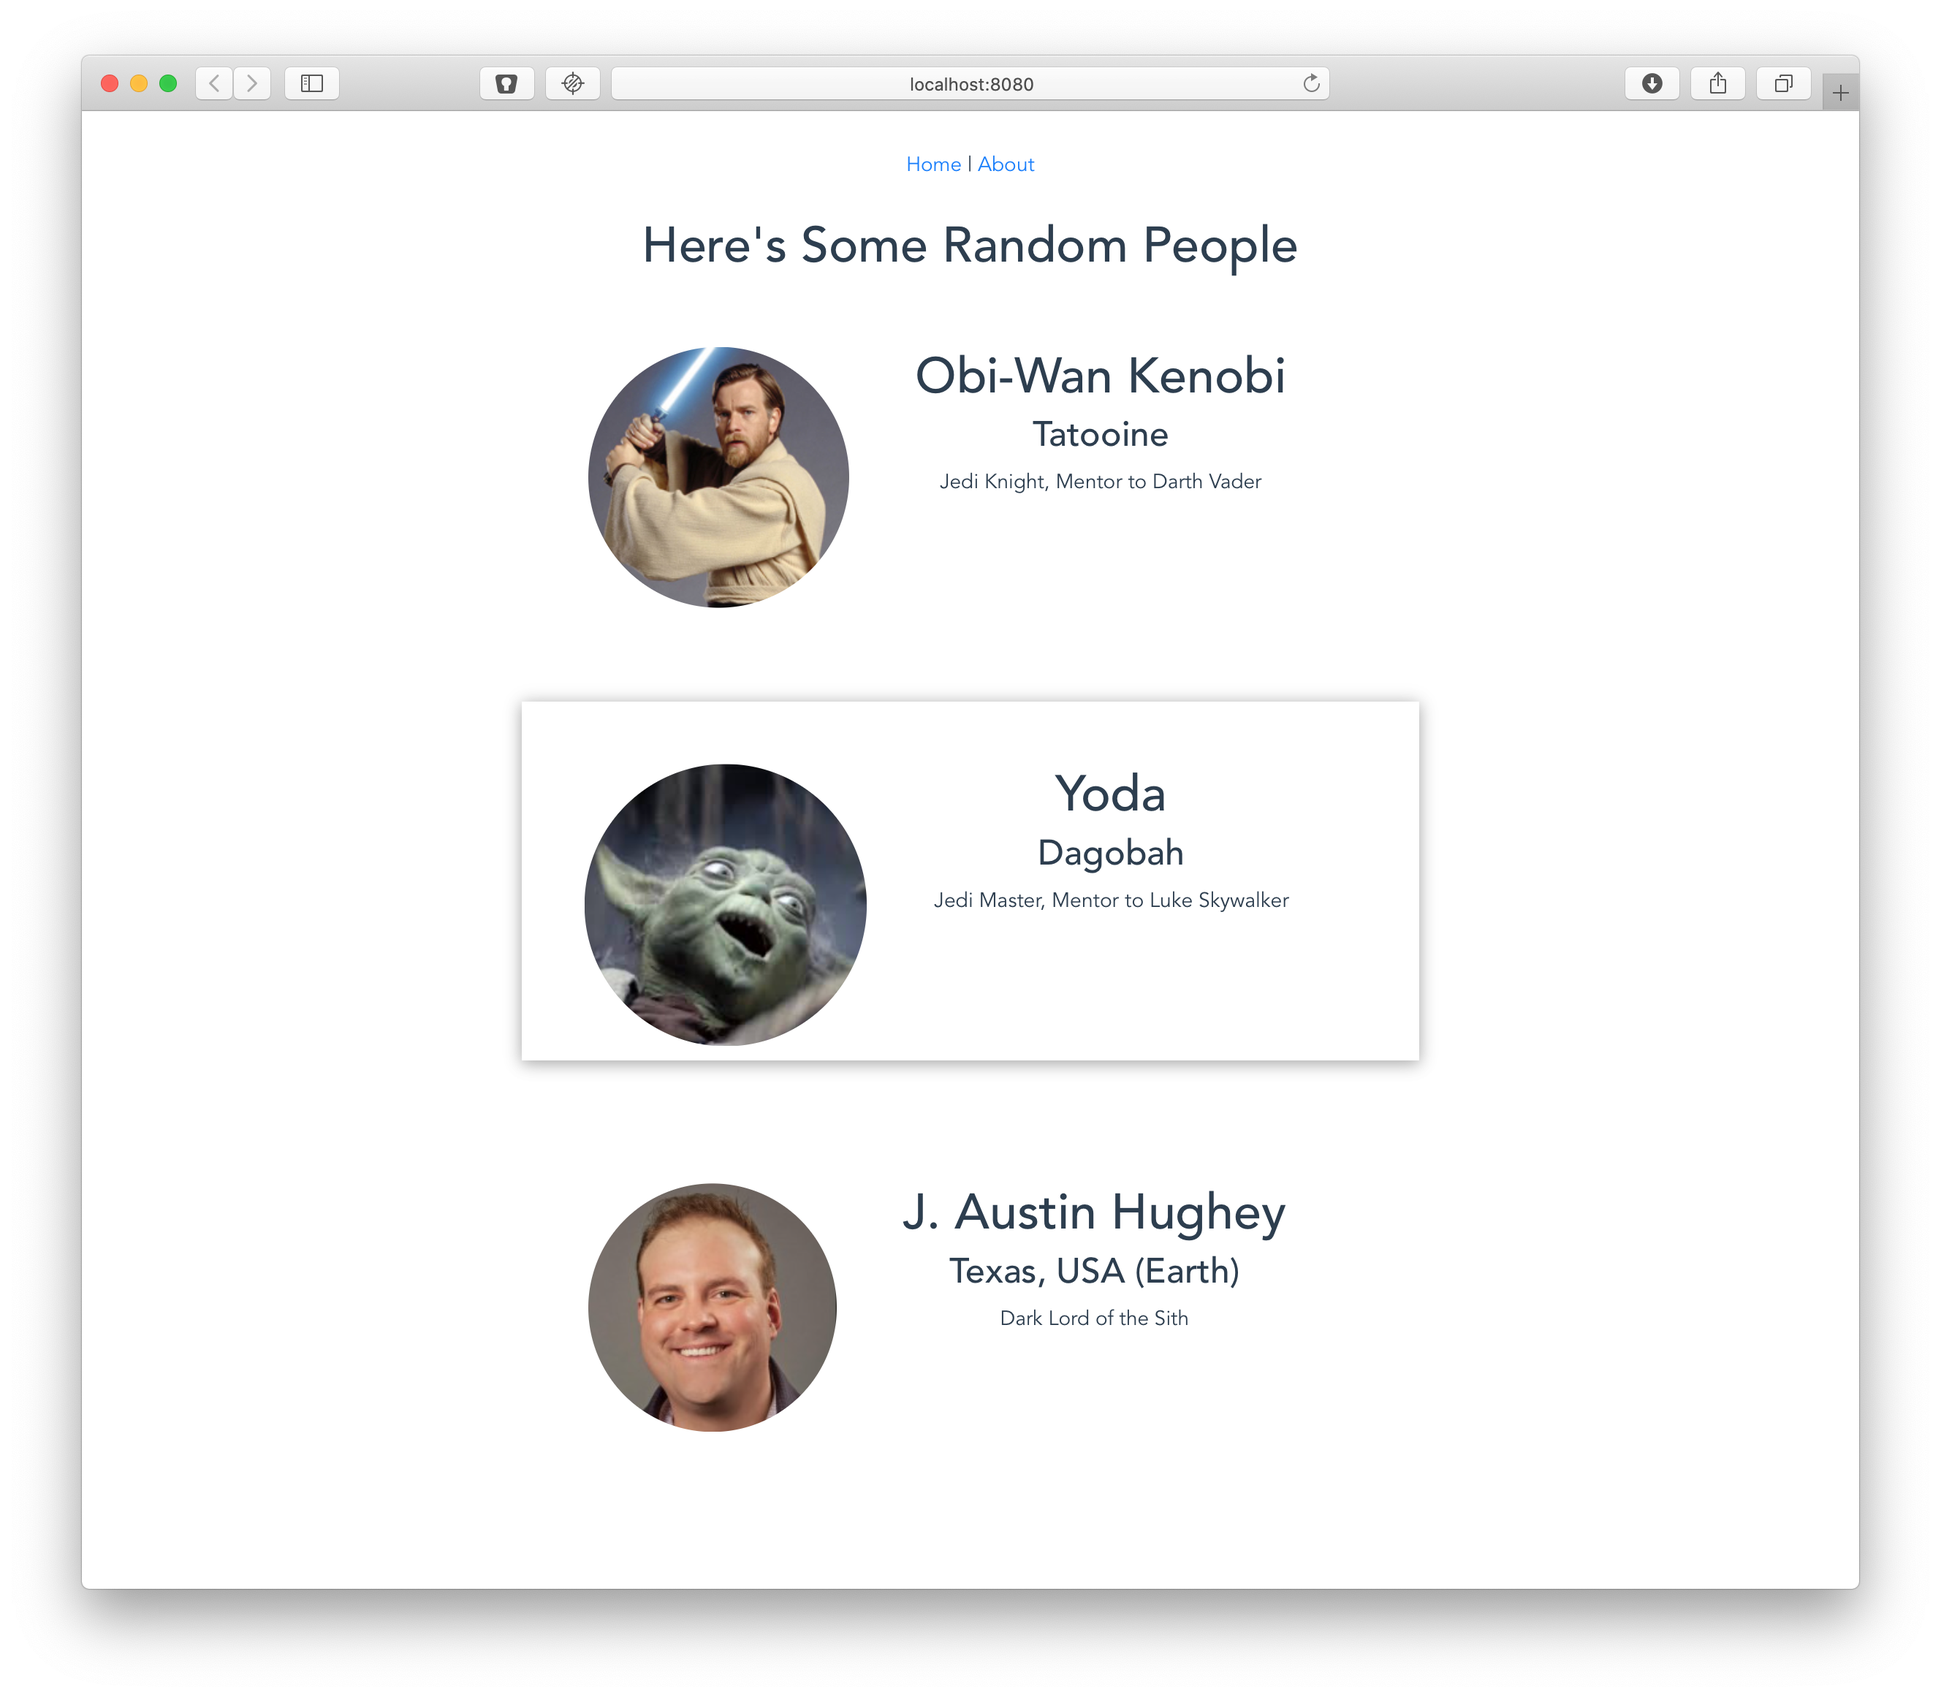
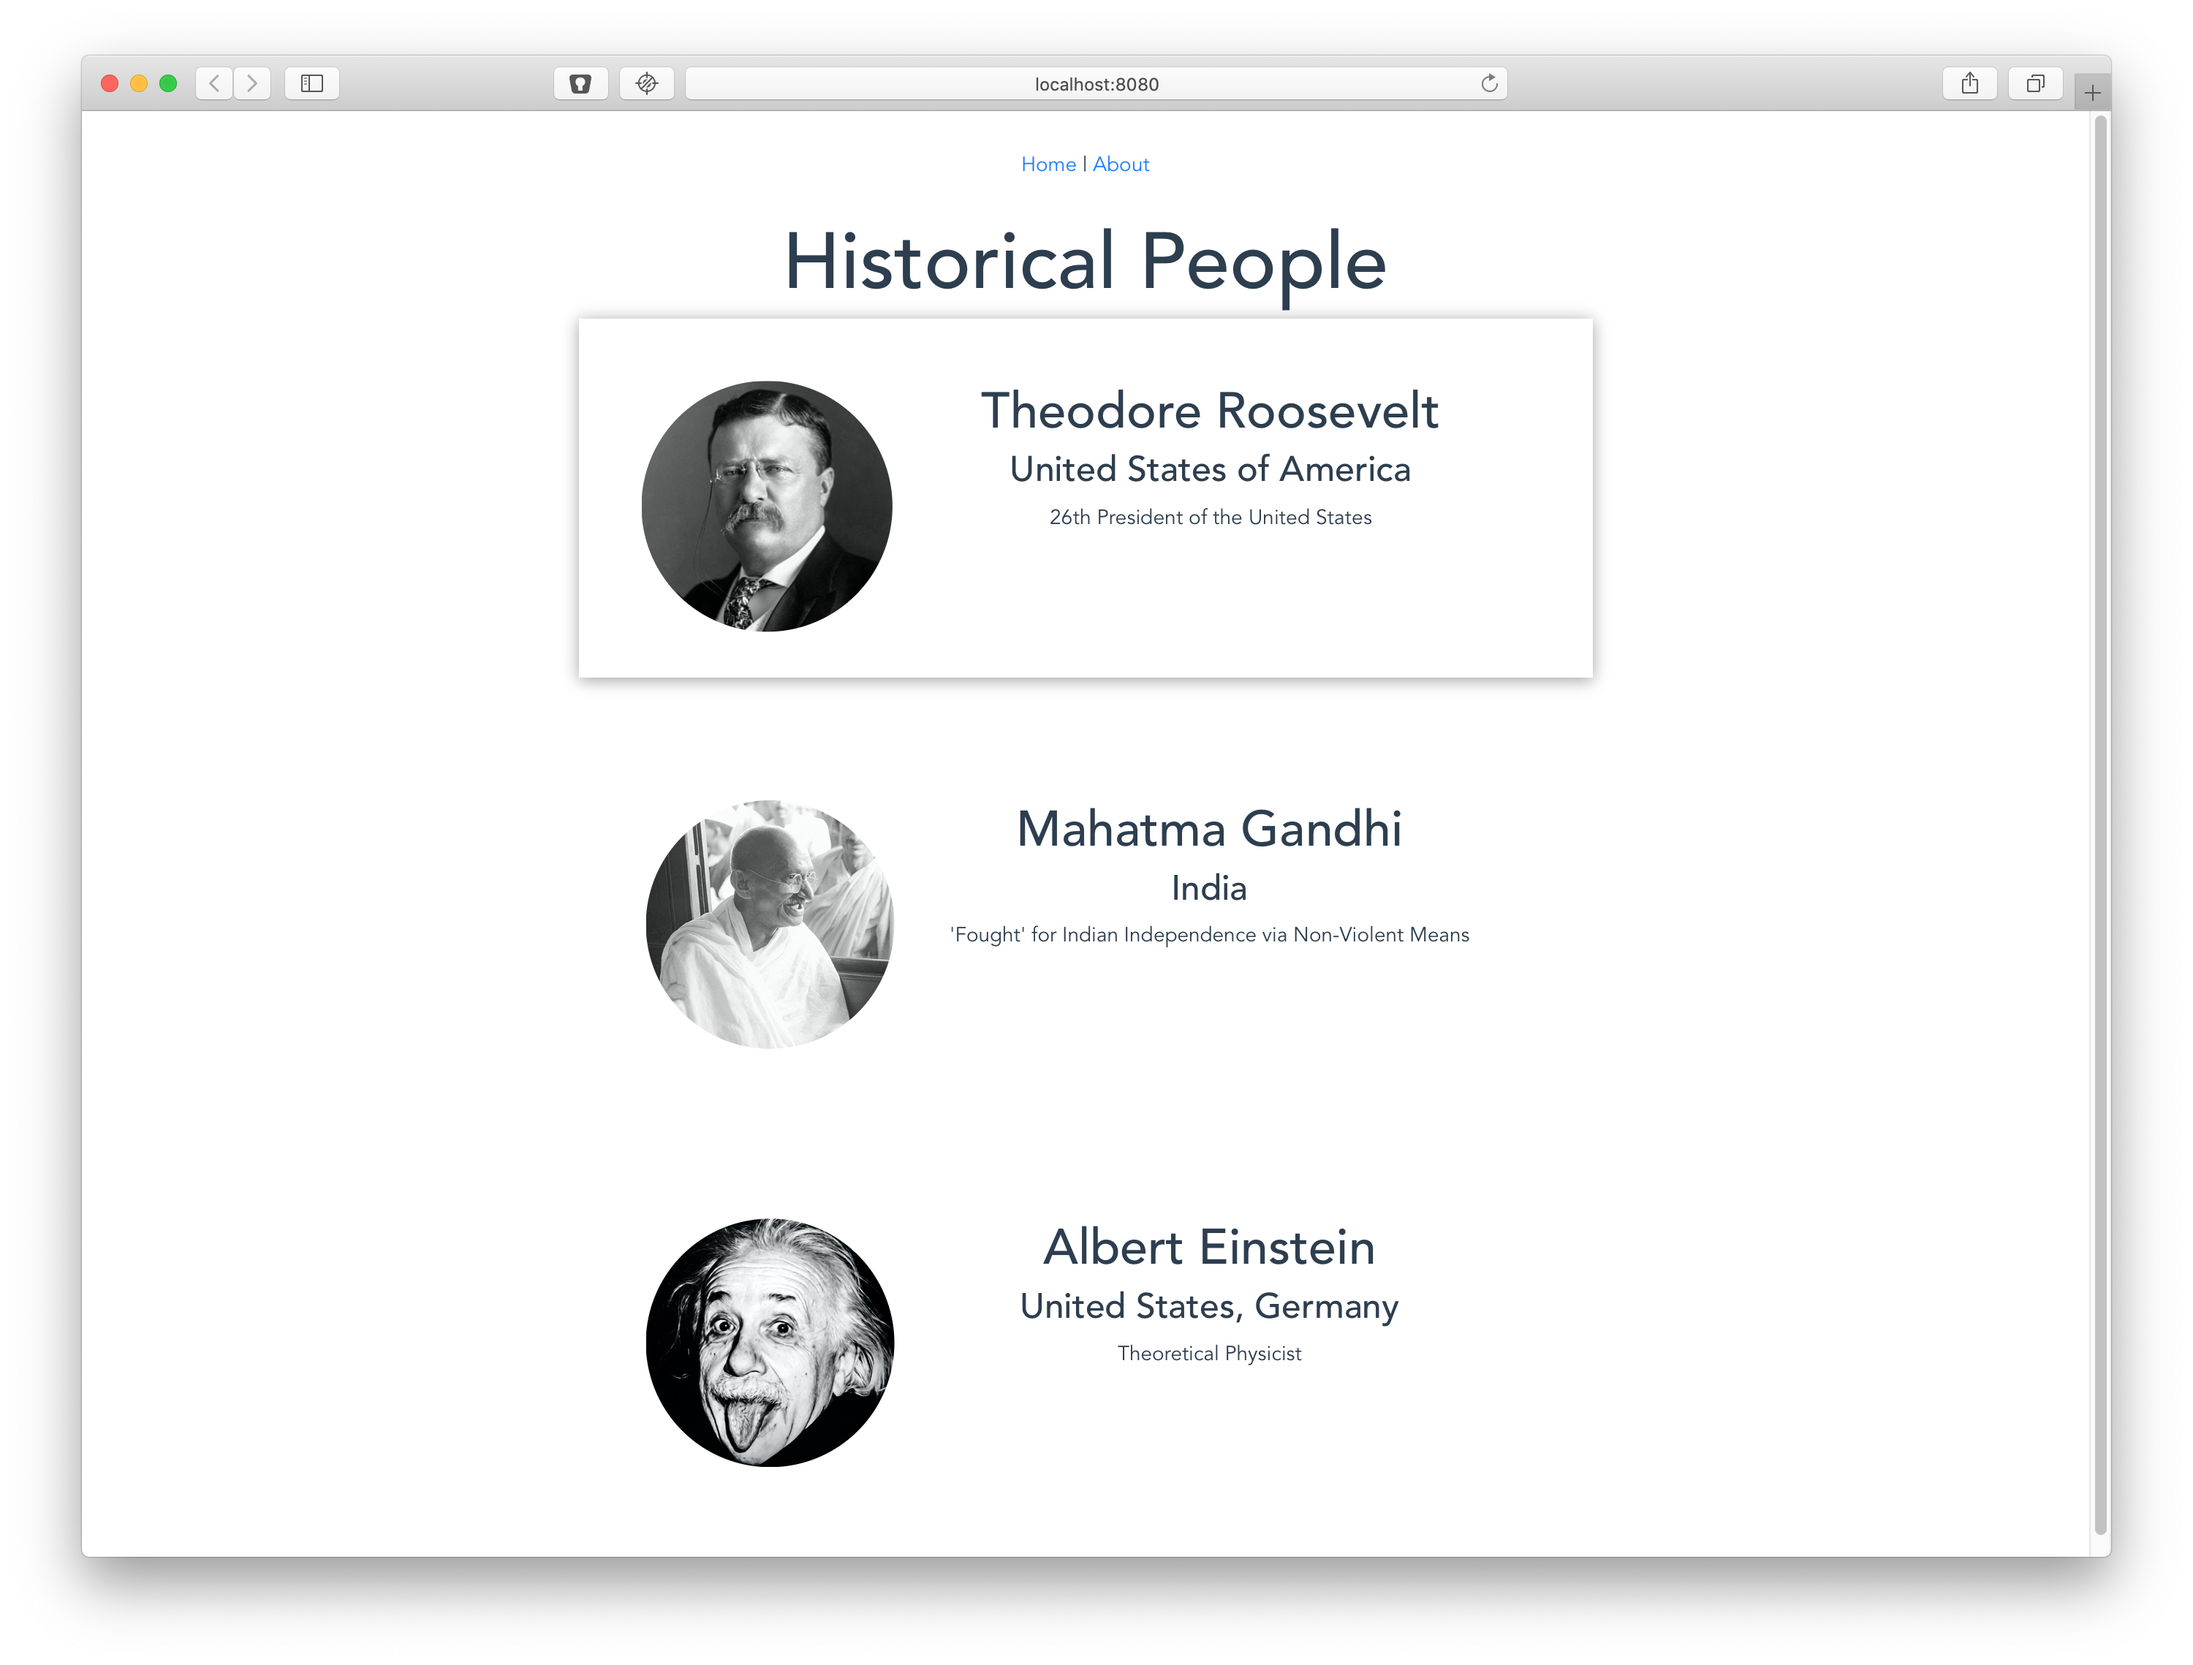
use historical figures to prevent copyright trolling

diff --git a/src/store/modules/profiles.js b/src/store/modules/profiles.js
@@ -1,9 +1,9 @@
 // initial state
 const state = {
   profiles: [
-    { id: 2, name: "Obi-Wan Kenobi", location: "Tatooine", occupation: "Jedi Knight, Mentor to Darth Vader", profileImage: "http://localhost:8080/obi-wan.jpg" },
-    { id: 3, name: "Yoda", location: "Dagobah", occupation: "Jedi Master, Mentor to Luke Skywalker", profileImage: "http://localhost:8080/yoda.jpg" },
-    { id: 1, name: "J. Austin Hughey", location: "Texas, USA (Earth)", occupation: "Dark Lord of the Sith", profileImage: "http://localhost:8080/jah.jpg" }
+    { id: 1, name: "Theodore Roosevelt", location: "United States of America", occupation: "26th President of the United States", profileImage: "http://localhost:8080/roosevelt.jpg" },
+    { id: 2, name: "Mahatma Gandhi", location: "India", occupation: "'Fought' for Indian Independence via Non-Violent Means", profileImage: "http://localhost:8080/gandhi.jpg" },
+    { id: 3, name: "Albert Einstein", location: "United States, Germany", occupation: "Theoretical Physicist", profileImage: "http://localhost:8080/einstein.jpg" }
   ]
 }
 

diff --git a/src/components/ProfileCard.vue b/src/components/ProfileCard.vue
@@ -1,6 +1,6 @@
 <template>
   <div class="profile-card" v-on:click="gotClicked">
-    <img :src="profileImage" class="rounded-circle float-left" />
+    <img :src="profileImage" class="rounded-circle float-left" width="200" />
     <h1>{{ name }}</h1>
     <h3>{{ location }}</h3>
     <p>{{ occupation }}</p>

diff --git a/src/views/Home.vue b/src/views/Home.vue
@@ -1,6 +1,6 @@
 <template>
   <div class="home">
-    <h1>Here's Some Random People</h1>
+    <h1>Historical People</h1>
     <ProfileCard
       v-for="profile in profiles"
       :id="profile.id"
